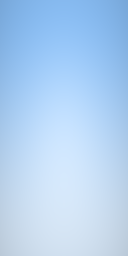
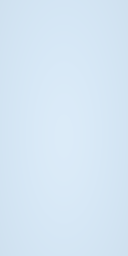
feat(game): tray and model fit use the UI spec zones
TrayView places boxes (3 x 156 design px, gap 16) and holes (52 px, gap 12)
in the UiLayout zones, so the 3D tray lines up with the HUD on every aspect
and safe area; the hole plate (not in the mockup) is gone. LevelView fits the
model into the gameplay or menu zone (MenuFraming). Hole colors, camera
clear color and the backdrop follow the tokens.

diff --git a/Assets/_Game/Scripts/Game/View/TrayView.cs b/Assets/_Game/Scripts/Game/View/TrayView.cs
@@ -5,19 +5,15 @@ using UnityEngine;
 namespace Unscrew.Game
 {
     /// <summary>
-    /// Boxes row (top) and buffer holes (below) as 3D objects in camera space at a fixed distance,
-    /// laid out in viewport fractions so they stay above the model on any portrait aspect.
+    /// Boxes row (top) and buffer holes (below) as 3D objects in camera space at a fixed distance, placed in the
+    /// gameplay zones of the UI spec (UiLayout: boxes 3 x 156 design px with gap 16, holes 52 design px with gap 12),
+    /// so they line up with the HUD on every aspect ratio and safe area.
     /// </summary>
     public sealed class TrayView : MonoBehaviour
     {
         [SerializeField] private float distance = 10f;
-        [SerializeField] private float boxRowY = 0.855f;
-        [SerializeField] private float holeRowY = 0.755f;
-        [SerializeField] private float boxWidthFraction = 0.27f;
-        [SerializeField] private float boxGapFraction = 0.045f;
-        [SerializeField] private float holeRowWidthFraction = 0.9f;
-        [Tooltip("Box width cap as a fraction of the view height (wide screens like 3:4 keep 9:16 box size).")]
-        [SerializeField] private float boxWidthMaxOfHeight = 0.152f;
+        [Tooltip("Diameter of the dark cup of Hole.prefab at scale 1 (GameSceneBuilder: HoleCup radius 0.46).")]
+        [SerializeField] private float holeCupDiameter = 0.92f;
         [SerializeField] private float warningPulseSpeed = 9f;
 
         private Camera _cam;
@@ -29,9 +25,9 @@ namespace Unscrew.Game
         private float _boxWidth;
         private float _holeStep;
         private float _lastAspect;
-        private Transform _panel;
-        private Mesh _panelMesh;
-        private int _panelHoles = -1;
+        private UiLayout _layout;
+        private bool _hasLayout;
+        private float _holeSize;
         private bool _warning;
         private float _warnTime;
 
@@ -69,10 +65,6 @@ namespace Unscrew.Game
             for (int i = transform.childCount - 1; i >= 0; i--) Destroy(transform.GetChild(i).gameObject);
             _boxes = new BoxVisual[0];
             _holes.Clear();
-            _panel = null;
-            if (_panelMesh != null) Destroy(_panelMesh);
-            _panelMesh = null;
-            _panelHoles = -1;
             _warning = false;
         }
 
@@ -113,10 +105,8 @@ namespace Unscrew.Game
 
         public Vector3 BoxLocal(int slot)
         {
-            int n = Mathf.Max(1, _boxes.Length);
-            float step = _boxWidth + boxGapFraction * 2f * _halfW;
-            float x = (slot - (n - 1) * 0.5f) * step;
-            return new Vector3(x, ViewportToLocalY(boxRowY), 0f);
+            var r = _layout.BoxColumn(slot, Mathf.Max(1, _boxes.Length));
+            return new Vector3(CanvasToLocalX(r.center.x), CanvasToLocalY(r.center.y), 0f);
         }
 
         public Vector3 OffscreenRight(int slot) => new Vector3(_halfW + _boxWidth, BoxLocal(slot).y, 0f);
@@ -131,7 +121,7 @@ namespace Unscrew.Game
 
         private void LateUpdate()
         {
-            if (_cam != null && !Mathf.Approximately(_cam.aspect, _lastAspect))
+            if (_cam != null && (!Mathf.Approximately(_cam.aspect, _lastAspect) || !UiLayout.Current.Equals(_layout)))
             {
                 ComputeMetrics();
                 Relayout();
@@ -161,14 +151,17 @@ namespace Unscrew.Game
         private void ComputeMetrics()
         {
             _lastAspect = _cam.aspect;
+            _layout = UiLayout.Current;
+            _hasLayout = true;
             _halfH = distance * Mathf.Tan(_cam.fieldOfView * 0.5f * Mathf.Deg2Rad);
             _halfW = _halfH * _cam.aspect;
-            _boxWidth = Mathf.Min(boxWidthFraction * 2f * _halfW, boxWidthMaxOfHeight * 2f * _halfH);
+            _boxWidth = CanvasToWorld(_layout.BoxColumn(0, 3).width);
         }
 
         private void Relayout()
         {
             if (_cam == null) return;
+            if (!_hasLayout) ComputeMetrics();
             for (int i = 0; i < _boxes.Length; i++)
             {
                 if (_boxes[i] == null) continue;
@@ -177,52 +170,25 @@ namespace Unscrew.Game
             }
             int n = _holes.Count;
             if (n == 0) return;
-            _holeStep = Mathf.Min(_boxWidth * 0.38f, holeRowWidthFraction * 2f * _halfW / n);
-            float size = _holeStep * 0.82f;
-            float y = ViewportToLocalY(holeRowY);
+            _layout.HoleMetrics(n, out float diameter, out float step);
+            _holeStep = CanvasToWorld(step);
+            _holeSize = CanvasToWorld(diameter);
+            float scale = _holeSize / holeCupDiameter;
+            var row = _layout.HoleRow;
+            float y = CanvasToLocalY(row.center.y);
+            float cx = CanvasToLocalX(row.center.x);
             for (int i = 0; i < n; i++)
             {
                 var t = _holes[i].transform;
-                t.localScale = Vector3.one * size;
-                t.localPosition = new Vector3((i - (n - 1) * 0.5f) * _holeStep, y, 0f);
+                t.localScale = Vector3.one * scale;
+                t.localPosition = new Vector3(cx + (i - (n - 1) * 0.5f) * _holeStep, y, 0f);
             }
-            LayoutPanel(n, y);
         }
 
-        /// <summary>Rounded plate behind the hole row; the mesh is rebuilt only when the hole count or size changes.</summary>
-        private void LayoutPanel(int n, float y)
-        {
-            if (_catalog == null || _catalog.trayPanelMaterial == null) return;
-            if (_panel == null)
-            {
-                var go = new GameObject("HolePanel", typeof(MeshFilter), typeof(MeshRenderer));
-                _panel = go.transform;
-                _panel.SetParent(transform, false);
-                var r = go.GetComponent<MeshRenderer>();
-                r.sharedMaterial = _catalog.trayPanelMaterial;
-                r.shadowCastingMode = UnityEngine.Rendering.ShadowCastingMode.Off;
-                r.receiveShadows = false;
-            }
-            if (_panelHoles != n || !Mathf.Approximately(_lastAspect, _panelAspect))
-            {
-                _panelHoles = n;
-                _panelAspect = _lastAspect;
-                if (_panelMesh != null) Destroy(_panelMesh);
-                float h = _holeStep * 1.12f;
-                float w = n * _holeStep + _holeStep * 0.3f;
-                _panelMesh = ProceduralMesh.RoundedSlab("HolePanel", w, h, h * 0.25f, h * 0.5f, h * 0.12f, 8);
-                _panel.GetComponent<MeshFilter>().sharedMesh = _panelMesh;
-            }
-            _panel.localPosition = new Vector3(0f, y, _holeStep * 0.12f);
-        }
+        // Canvas units (UiLayout) -> local units of this camera-space plane at `distance`.
+        private float CanvasToWorld(float units) => units / _layout.Canvas.x * 2f * _halfW;
+        private float CanvasToLocalX(float x) => (x / _layout.Canvas.x * 2f - 1f) * _halfW;
+        private float CanvasToLocalY(float y) => (y / _layout.Canvas.y * 2f - 1f) * _halfH;
 
-        private float _panelAspect;
-
-        /// <summary>Rows are placed in viewport fractions of the safe area (so a notch never covers the boxes).</summary>
-        private float ViewportToLocalY(float v)
-        {
-            float y = LevelView.SafeViewport(new Rect(0f, v, 1f, 0f)).y;
-            return (2f * y - 1f) * _halfH;
-        }
     }
 }

diff --git a/Assets/_Game/Scripts/Game/View/LevelView.cs b/Assets/_Game/Scripts/Game/View/LevelView.cs
@@ -6,14 +6,12 @@ namespace Unscrew.Game
 {
     /// <summary>
     /// Instantiates Level_XX.prefab under a rotatable pivot, maps parts/bolts by nodePath,
-    /// recolors bolts from the layout and fits the model into the lower part of the screen.
+    /// recolors bolts from the layout and fits the model into the UI spec's model zone (UiLayout).
     /// </summary>
     public sealed class LevelView : MonoBehaviour
     {
         public const string BoltLayerName = "Bolt";
 
-        [Tooltip("Viewport rect (x, y, w, h) inside the safe area the model must fit into (below the tray, above the booster bar).")]
-        [SerializeField] private Rect modelViewport = new Rect(0.03f, 0.172f, 0.94f, 0.528f);
         [Tooltip("Negative = top of the model tilted toward the camera (seen slightly from above).")]
         [SerializeField] private float startPitch = -15f;
         [SerializeField] private float minPitch = -60f;
@@ -26,6 +24,18 @@ namespace Unscrew.Game
         private float _yaw;
         private float _pitch;
         private Vector3 _extents;
+
+        private bool _menuFraming;
+
+        /// <summary>
+        /// The model fits the menu turntable zone instead of the gameplay zone (between the holes and the booster panel).
+        /// Both come from UiLayout, i.e. the UI spec; setting it refits.
+        /// </summary>
+        public bool MenuFraming
+        {
+            get => _menuFraming;
+            set { if (_menuFraming == value) return; _menuFraming = value; FitCamera(); }
+        }
 
         /// <summary>Degrees per second of idle yaw (main menu showcase); 0 while playing.</summary>
         public float AutoSpin { get; set; }
@@ -148,7 +158,8 @@ namespace Unscrew.Game
         {
             if (_pivot == null || _cam == null) return;
             _fittedAspect = _cam.aspect;
-            var vp = SafeViewport(modelViewport);
+            _fittedLayout = UiLayout.Current;
+            var vp = _fittedLayout.ToViewport(_menuFraming ? _fittedLayout.MenuModel : _fittedLayout.GameModel);
             float tanV = Mathf.Tan(_cam.fieldOfView * 0.5f * Mathf.Deg2Rad) * vp.height;
             float tanH = Mathf.Tan(_cam.fieldOfView * 0.5f * Mathf.Deg2Rad) * _cam.aspect * vp.width;
             // Fit the axis-aligned extents rather than the bounding sphere (which makes bolts tiny):
@@ -164,15 +175,7 @@ namespace Unscrew.Game
         }
 
         private float _fittedAspect;
-
-        /// <summary>Maps a full-screen viewport rect into the vertical safe area (notches, gesture bar).</summary>
-        public static Rect SafeViewport(Rect r)
-        {
-            if (Screen.height <= 0) return r;
-            var safe = Screen.safeArea;
-            float bottom = safe.yMin / Screen.height, top = safe.yMax / Screen.height;
-            return new Rect(r.x, bottom + r.y * (top - bottom), r.width, r.height * (top - bottom));
-        }
+        private UiLayout _fittedLayout;
 
         /// <summary>Drill target mode: drillable bolts pulse, the rest are dimmed. null switches it off.</summary>
         public void SetDrillHighlight(GameFlow flow)
@@ -208,7 +211,7 @@ namespace Unscrew.Game
         {
             if (_pivot != null && AutoSpin != 0f) Orbit(AutoSpin * Time.deltaTime, 0f);
             // Rotation / resize of the window: keep the model in its viewport rect.
-            if (_cam != null && _pivot != null && !Mathf.Approximately(_cam.aspect, _fittedAspect)) FitCamera();
+            if (_cam != null && _pivot != null && (!Mathf.Approximately(_cam.aspect, _fittedAspect) || !UiLayout.Current.Equals(_fittedLayout))) FitCamera();
         }
 
         private void ApplyRotation()

diff --git a/Assets/_Game/Scripts/Game/Editor/GameSceneBuilder.cs b/Assets/_Game/Scripts/Game/Editor/GameSceneBuilder.cs
@@ -42,8 +42,9 @@ namespace Unscrew.Game.Editor
             var boxMat = EnsureLit(MaterialsDir + "/Box.mat", Color.white, 0.62f);
             var slotMat = EnsureLit(MaterialsDir + "/BoxSlot.mat", new Color(0.12f, 0.13f, 0.2f), 0.25f);
             var rimMat = EnsureLit(MaterialsDir + "/BoxRim.mat", Color.white, 0.7f);
-            var holeMat = EnsureLit(MaterialsDir + "/Hole.mat", new Color(0.17f, 0.2f, 0.32f), 0.3f);
-            var holeRimMat = EnsureLit(MaterialsDir + "/HoleRim.mat", new Color(0.93f, 0.95f, 1f), 0.7f);
+            // Hole cup / ring colors from the UI spec (UiTokens: hole #2A3444, ring #9DB1C7).
+            var holeMat = EnsureLit(MaterialsDir + "/Hole.mat", UiTokens.Colors.Hole, 0.3f);
+            var holeRimMat = EnsureLit(MaterialsDir + "/HoleRim.mat", UiTokens.Colors.HoleRing, 0.7f);
             var panelMat = EnsureLit(MaterialsDir + "/TrayPanel.mat", new Color(0.97f, 0.98f, 1f), 0.5f);
 
             var meshes = BuildMeshes();
@@ -231,16 +232,17 @@ namespace Unscrew.Game.Editor
             return AssetDatabase.LoadAssetAtPath<Texture2D>(path);
         }
 
-        /// <summary>Sky-blue vertical gradient, a soft light spot behind the model and a subtle vignette.</summary>
+        /// <summary>
+        /// UI spec background #D6E8F7 (UiTokens.Colors.Bg) with a very soft light spot behind the model and a faint vignette,
+        /// so the flat mockup color still gives the 3D model some depth.
+        /// </summary>
         private static Color BackgroundPixel(float u, float v)
         {
-            var top = new Color(0.55f, 0.77f, 1f);
-            var bottom = new Color(0.86f, 0.93f, 1f);
-            var c = Color.Lerp(bottom, top, Mathf.SmoothStep(0f, 1f, v));
-            float glow = Mathf.Exp(-(Sq((u - 0.5f) * 1.6f) + Sq((v - 0.42f) * 1.4f)) * 4f);
-            c = Color.Lerp(c, Color.white, glow * 0.28f);
+            var c = UiTokens.Colors.Bg;
+            float glow = Mathf.Exp(-(Sq((u - 0.5f) * 1.6f) + Sq((v - 0.45f) * 1.4f)) * 4f);
+            c = Color.Lerp(c, Color.white, glow * 0.12f);
             float vig = Sq(u - 0.5f) * 1.3f + Sq(v - 0.5f) * 0.9f;
-            c *= 1f - Mathf.Clamp01(vig) * 0.28f;
+            c *= 1f - Mathf.Clamp01(vig) * 0.06f;
             c.a = 1f;
             return c;
         }
@@ -349,7 +351,7 @@ namespace Unscrew.Game.Editor
             cam.nearClipPlane = 0.3f;
             cam.farClipPlane = 500f;
             cam.clearFlags = CameraClearFlags.SolidColor;
-            cam.backgroundColor = new Color(0.7f, 0.84f, 1f);
+            cam.backgroundColor = UiTokens.Colors.Bg;
             for (int i = cam.transform.childCount - 1; i >= 0; i--)
                 if (cam.transform.GetChild(i).name == "Background") Object.DestroyImmediate(cam.transform.GetChild(i).gameObject);
             BuildBackground(cam, bgMat);
